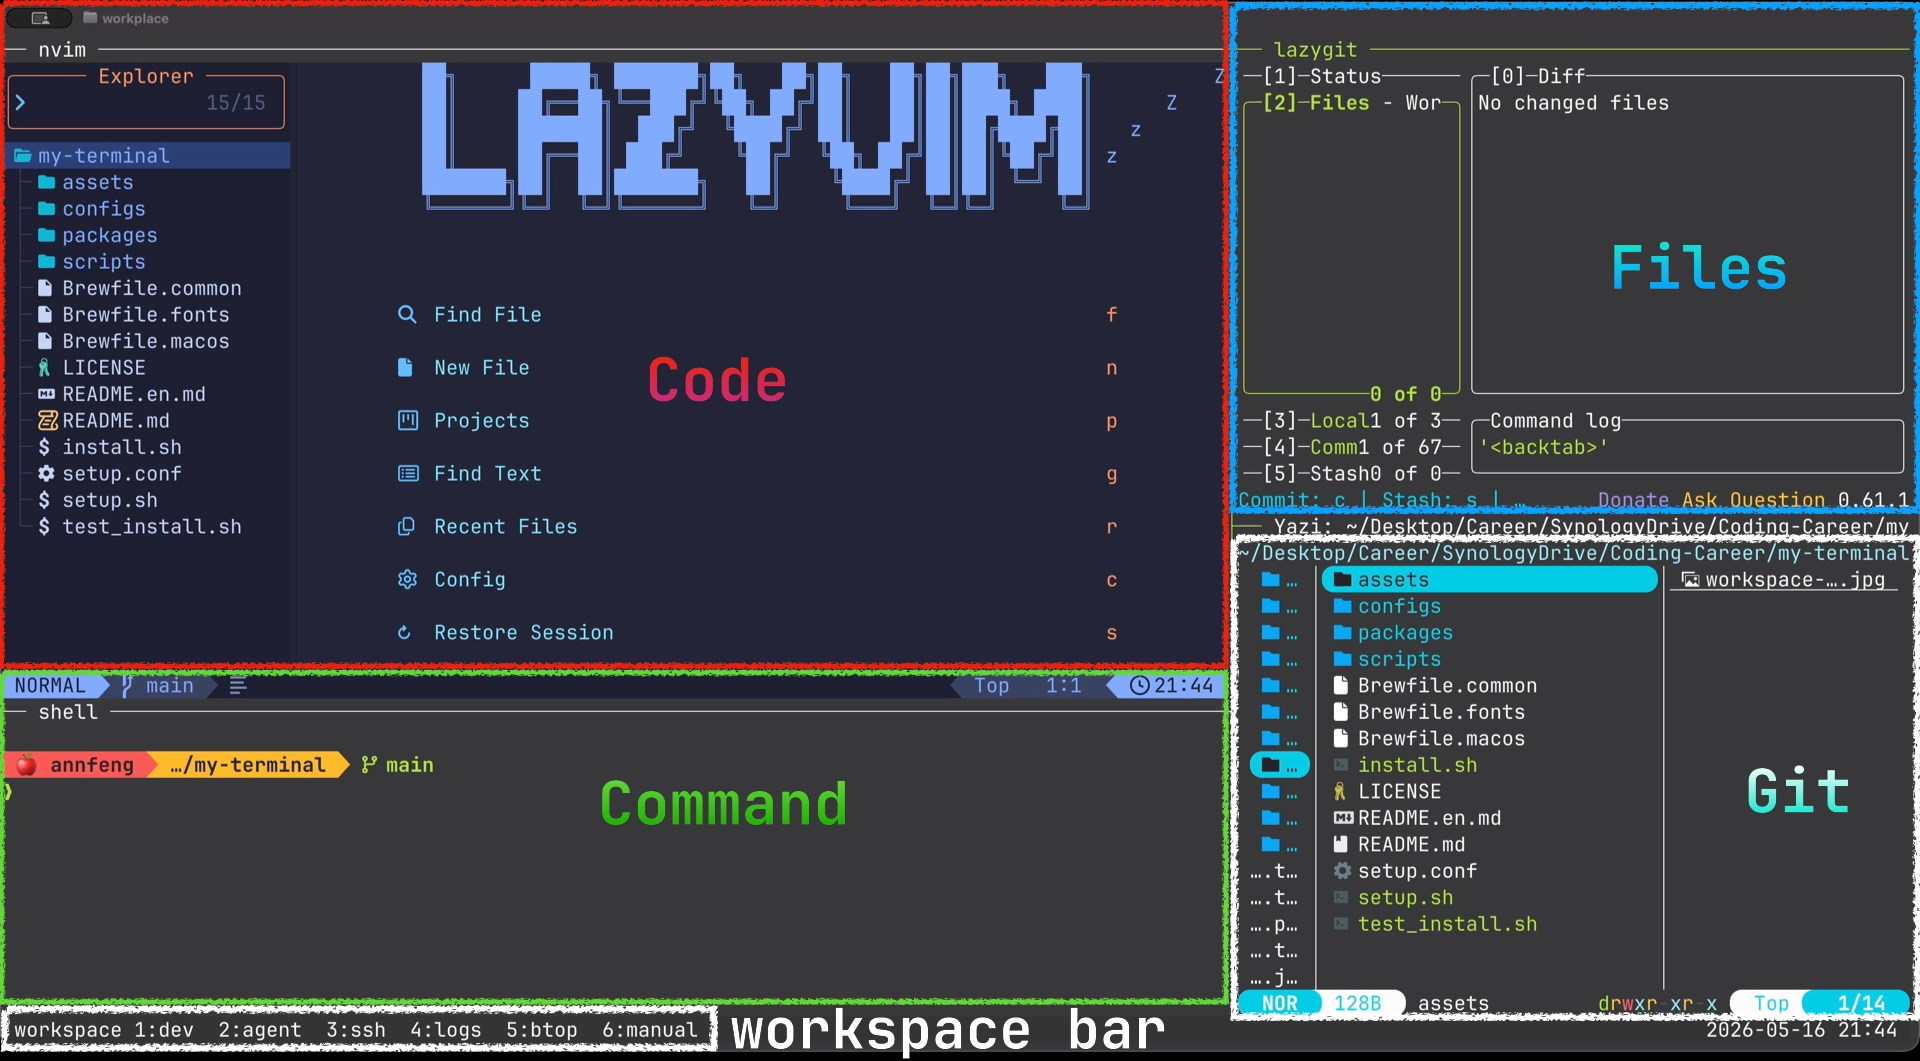
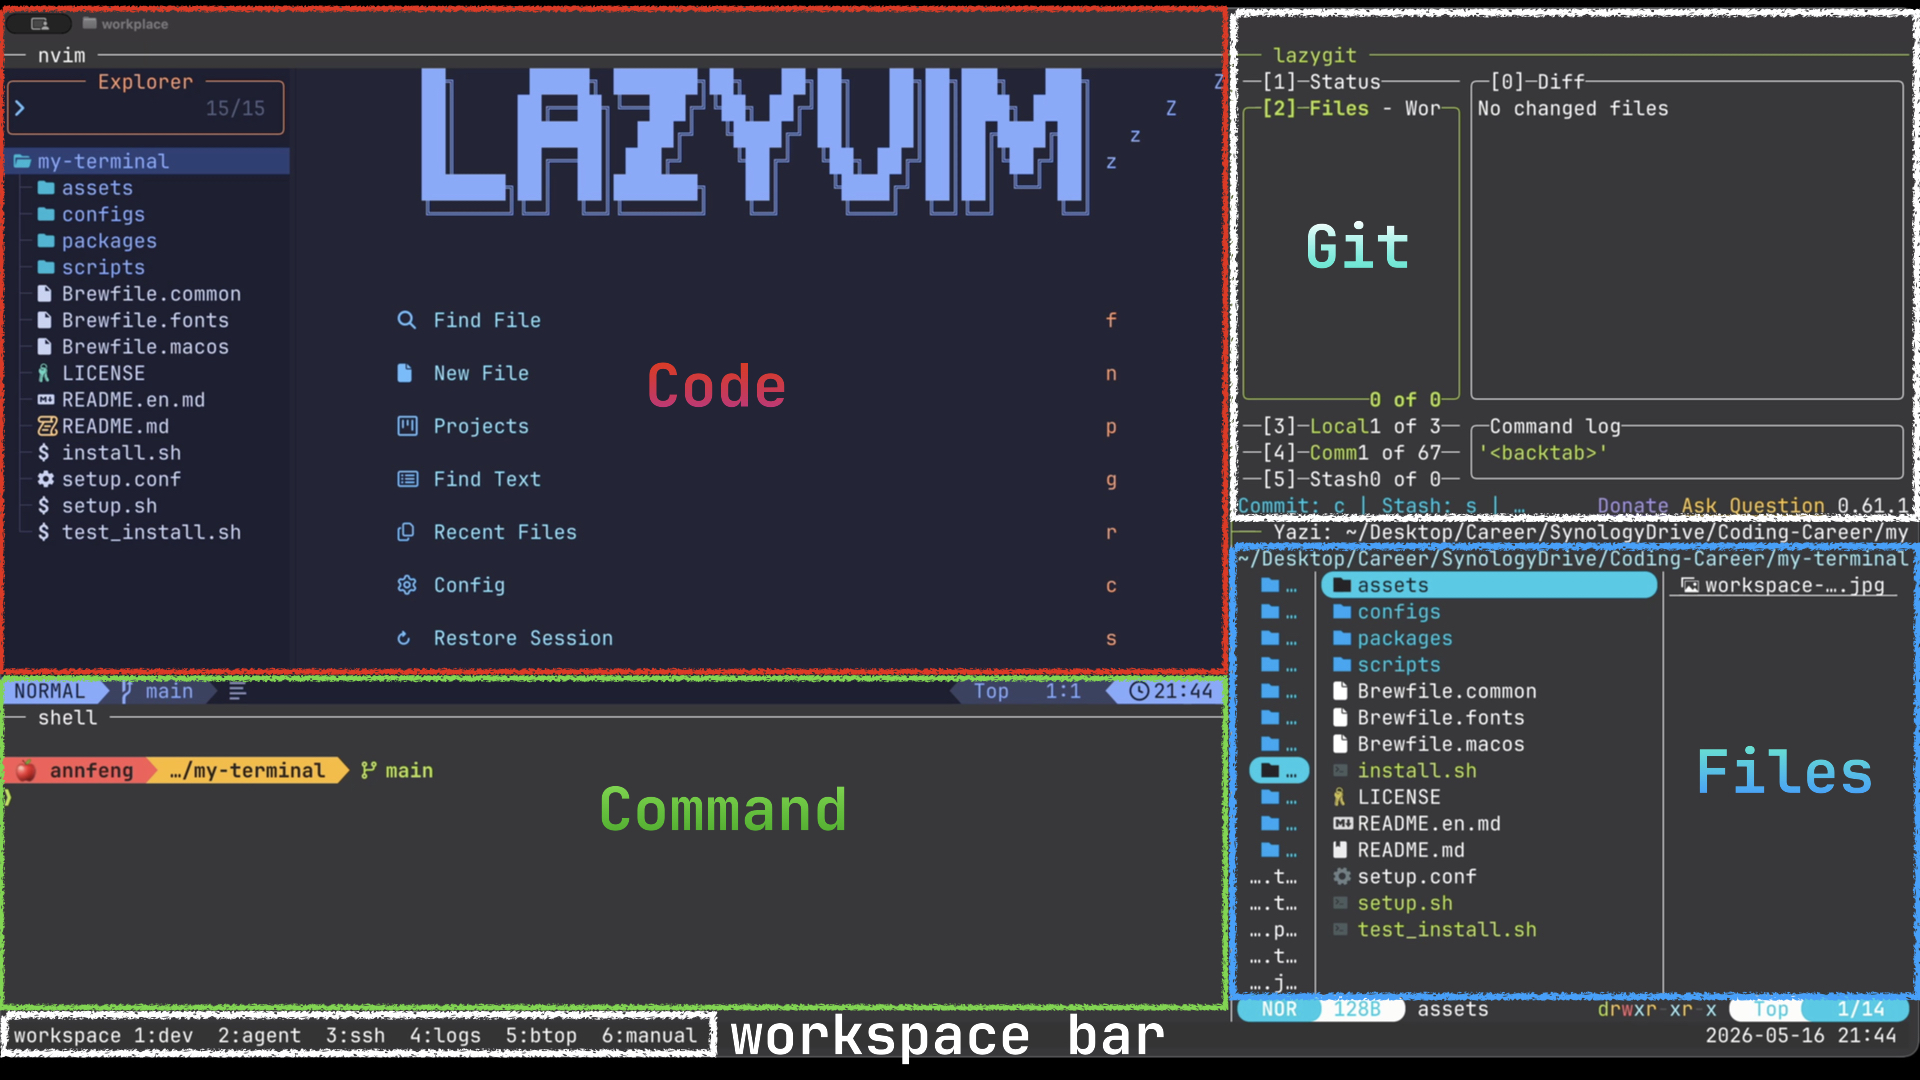
Clarify agent workspace description

diff --git a/README.en.md b/README.en.md
@@ -21,7 +21,7 @@ It supports macOS, Debian, Ubuntu, Raspberry Pi OS, Arch Linux, and Fedora. The 
 
 - The bottom **tmux workspace bar** switches between contexts with `1:dev`, `2:agent`, `3:ssh`, `4:logs`, `5:btop`, and `6:manual`.
 - **`1:dev`**: the main development workspace with `Code` / `Command` / `Git` / `Files` panes.
-- **`2:agent`**: AI assistant workspace split into `agent-1` / `agent-2`, ready for separate Codex CLI sessions when needed.
+- **`2:agent`**: AI assistant workspace split into `agent-1` / `agent-2`, ready for Codex, other AI CLIs, or regular terminal tasks as needed.
 - **`3:ssh`**: remote session workspace with a 4-pane `ssh-1` to `ssh-4` grid for multiple devices.
 - **`4:logs`**: tests, logs, and watch commands split into `logs-1` / `logs-2`.
 - **`5:btop`**: a dedicated system monitor page running `btop` by default.

diff --git a/README.md b/README.md
@@ -21,7 +21,7 @@
 
 - 底部 **tmux workspace bar** 使用 `1:dev`、`2:agent`、`3:ssh`、`4:logs`、`5:btop`、`6:manual` 在不同工作上下文之间切换。
 - **`1:dev`**：主开发工作区，包含 `Code` / `Command` / `Git` / `Files` 四个 pane。
-- **`2:agent`**：AI 辅助工作区，默认左右二分为 `agent-1` / `agent-2`，可按需分别运行 Codex CLI。
+- **`2:agent`**：AI 辅助工作区，默认左右二分为 `agent-1` / `agent-2`，可按需运行 Codex、其他 AI CLI 或普通终端任务。
 - **`3:ssh`**：远程连接工作区，默认四宫格 `ssh-1` 到 `ssh-4`，方便同时连接多个设备。
 - **`4:logs`**：测试、日志和 watch 命令工作区，默认左右二分为 `logs-1` / `logs-2`。
 - **`5:btop`**：单独的系统监控页面，默认运行 `btop`。
